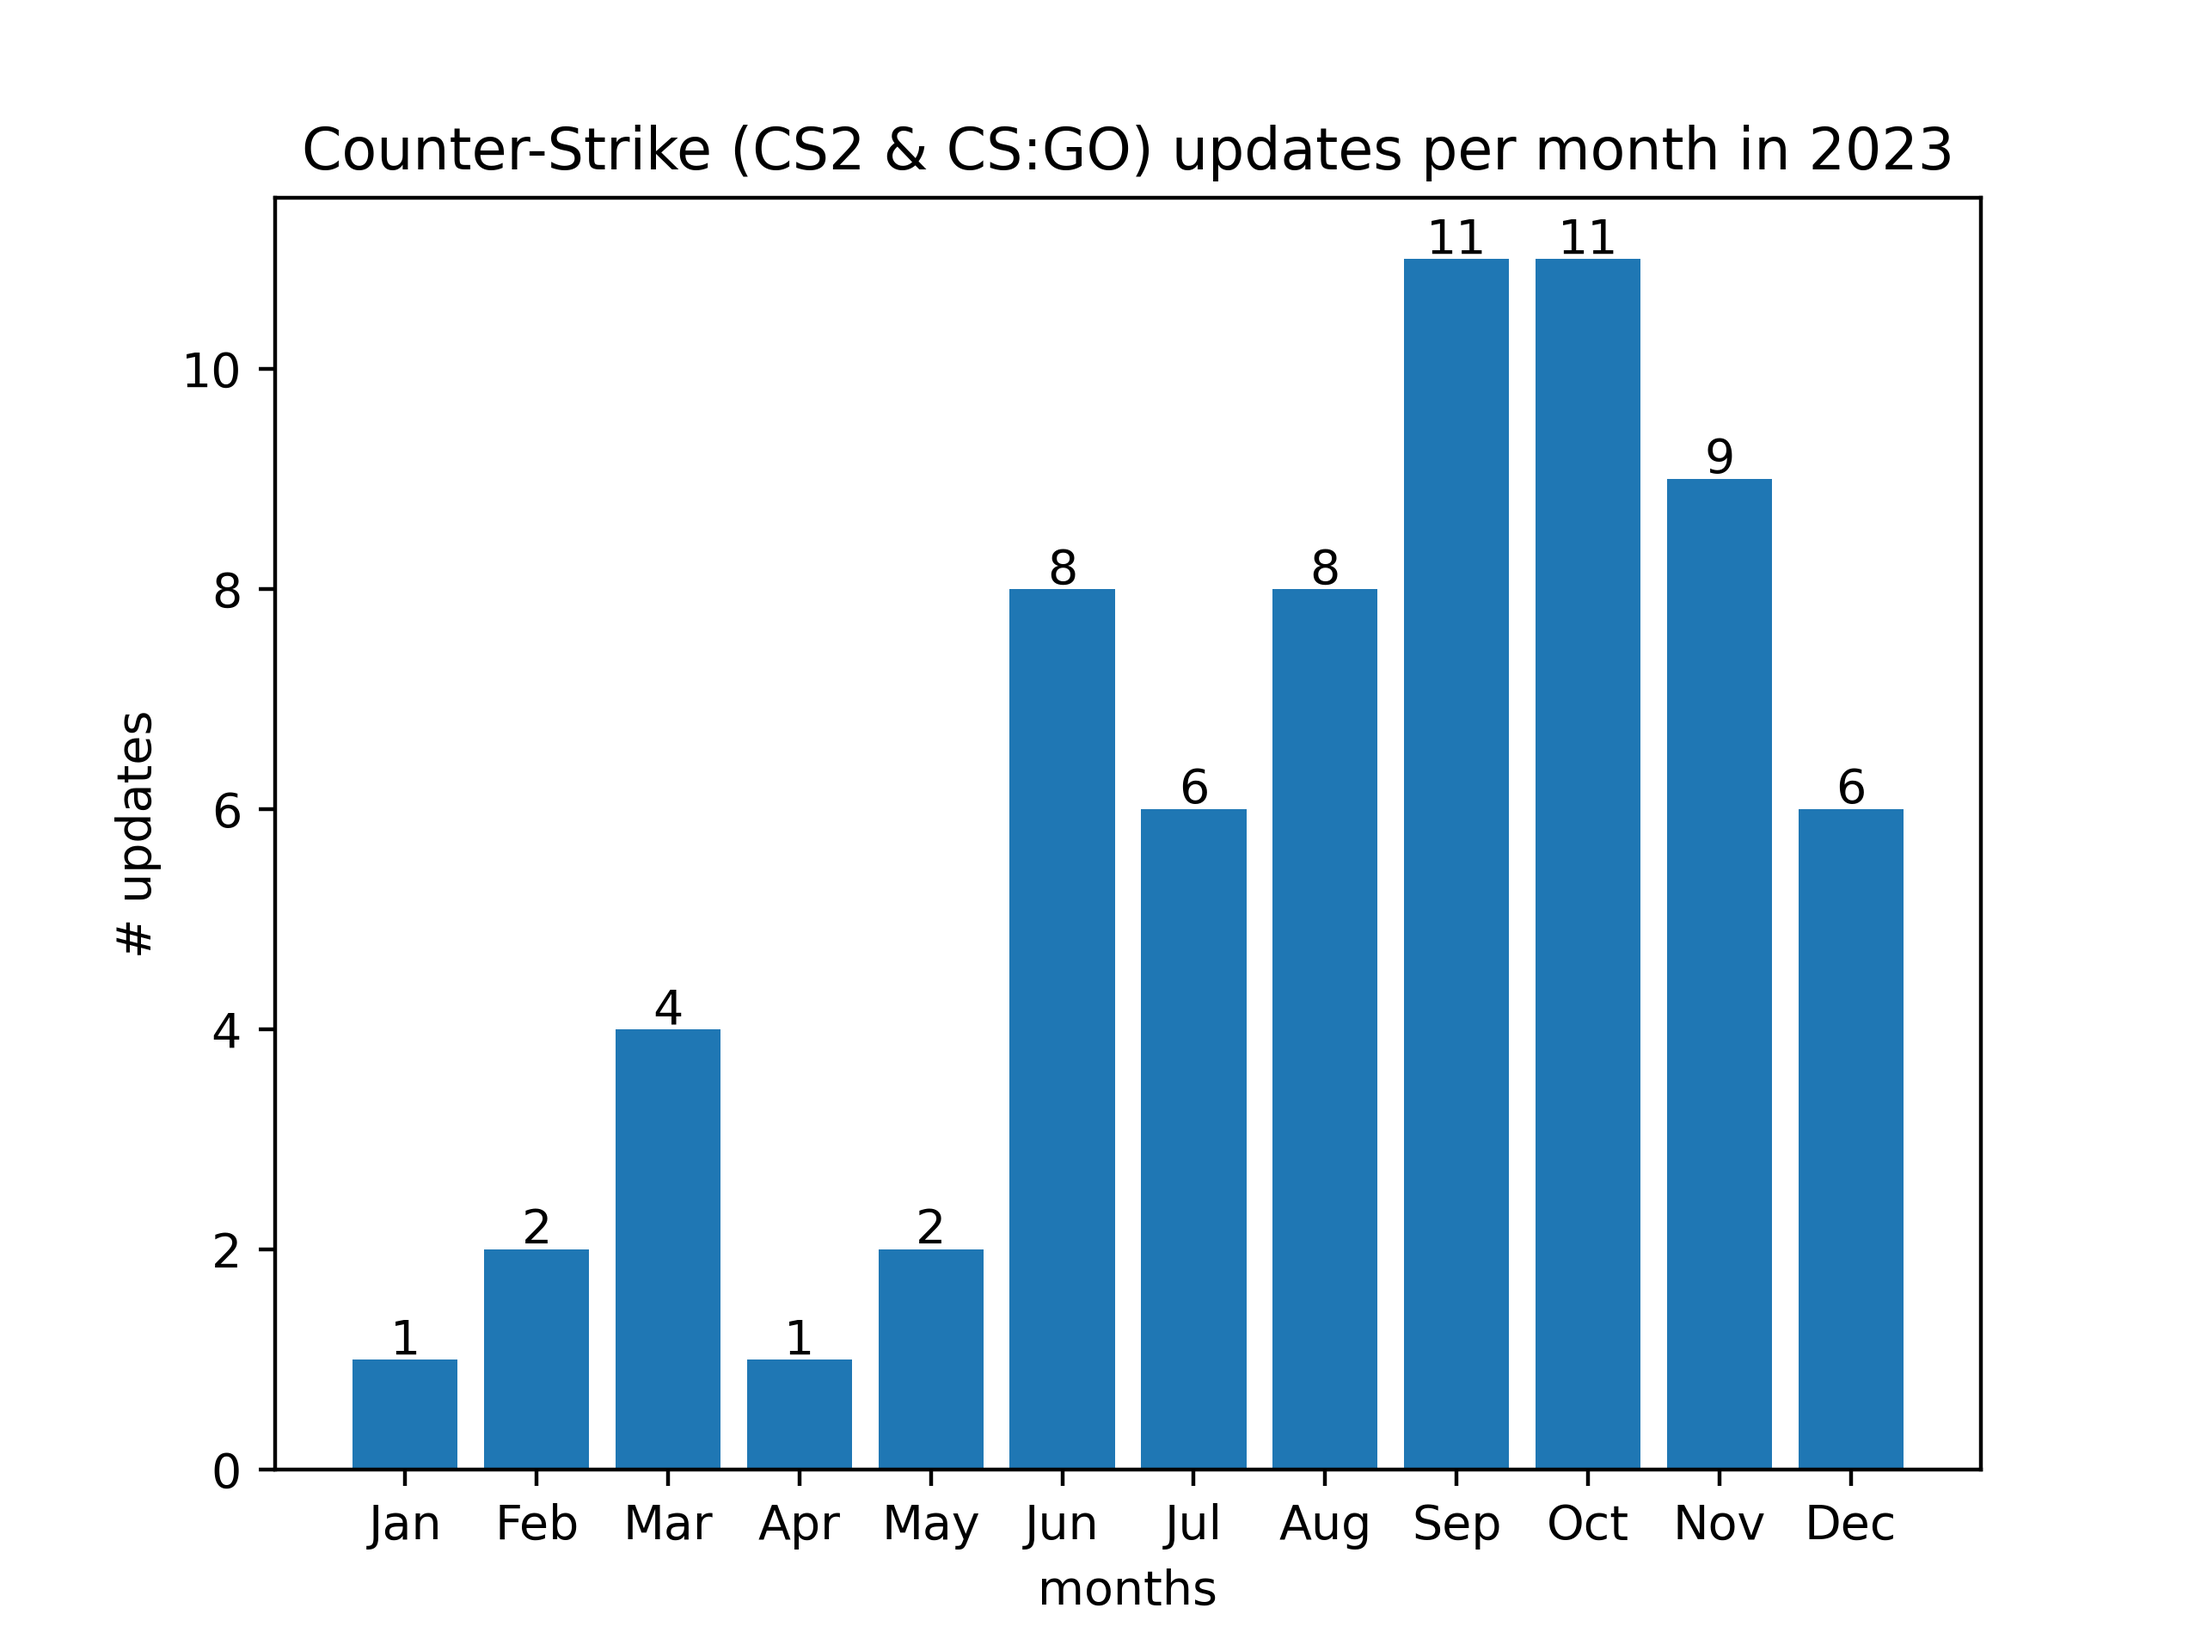
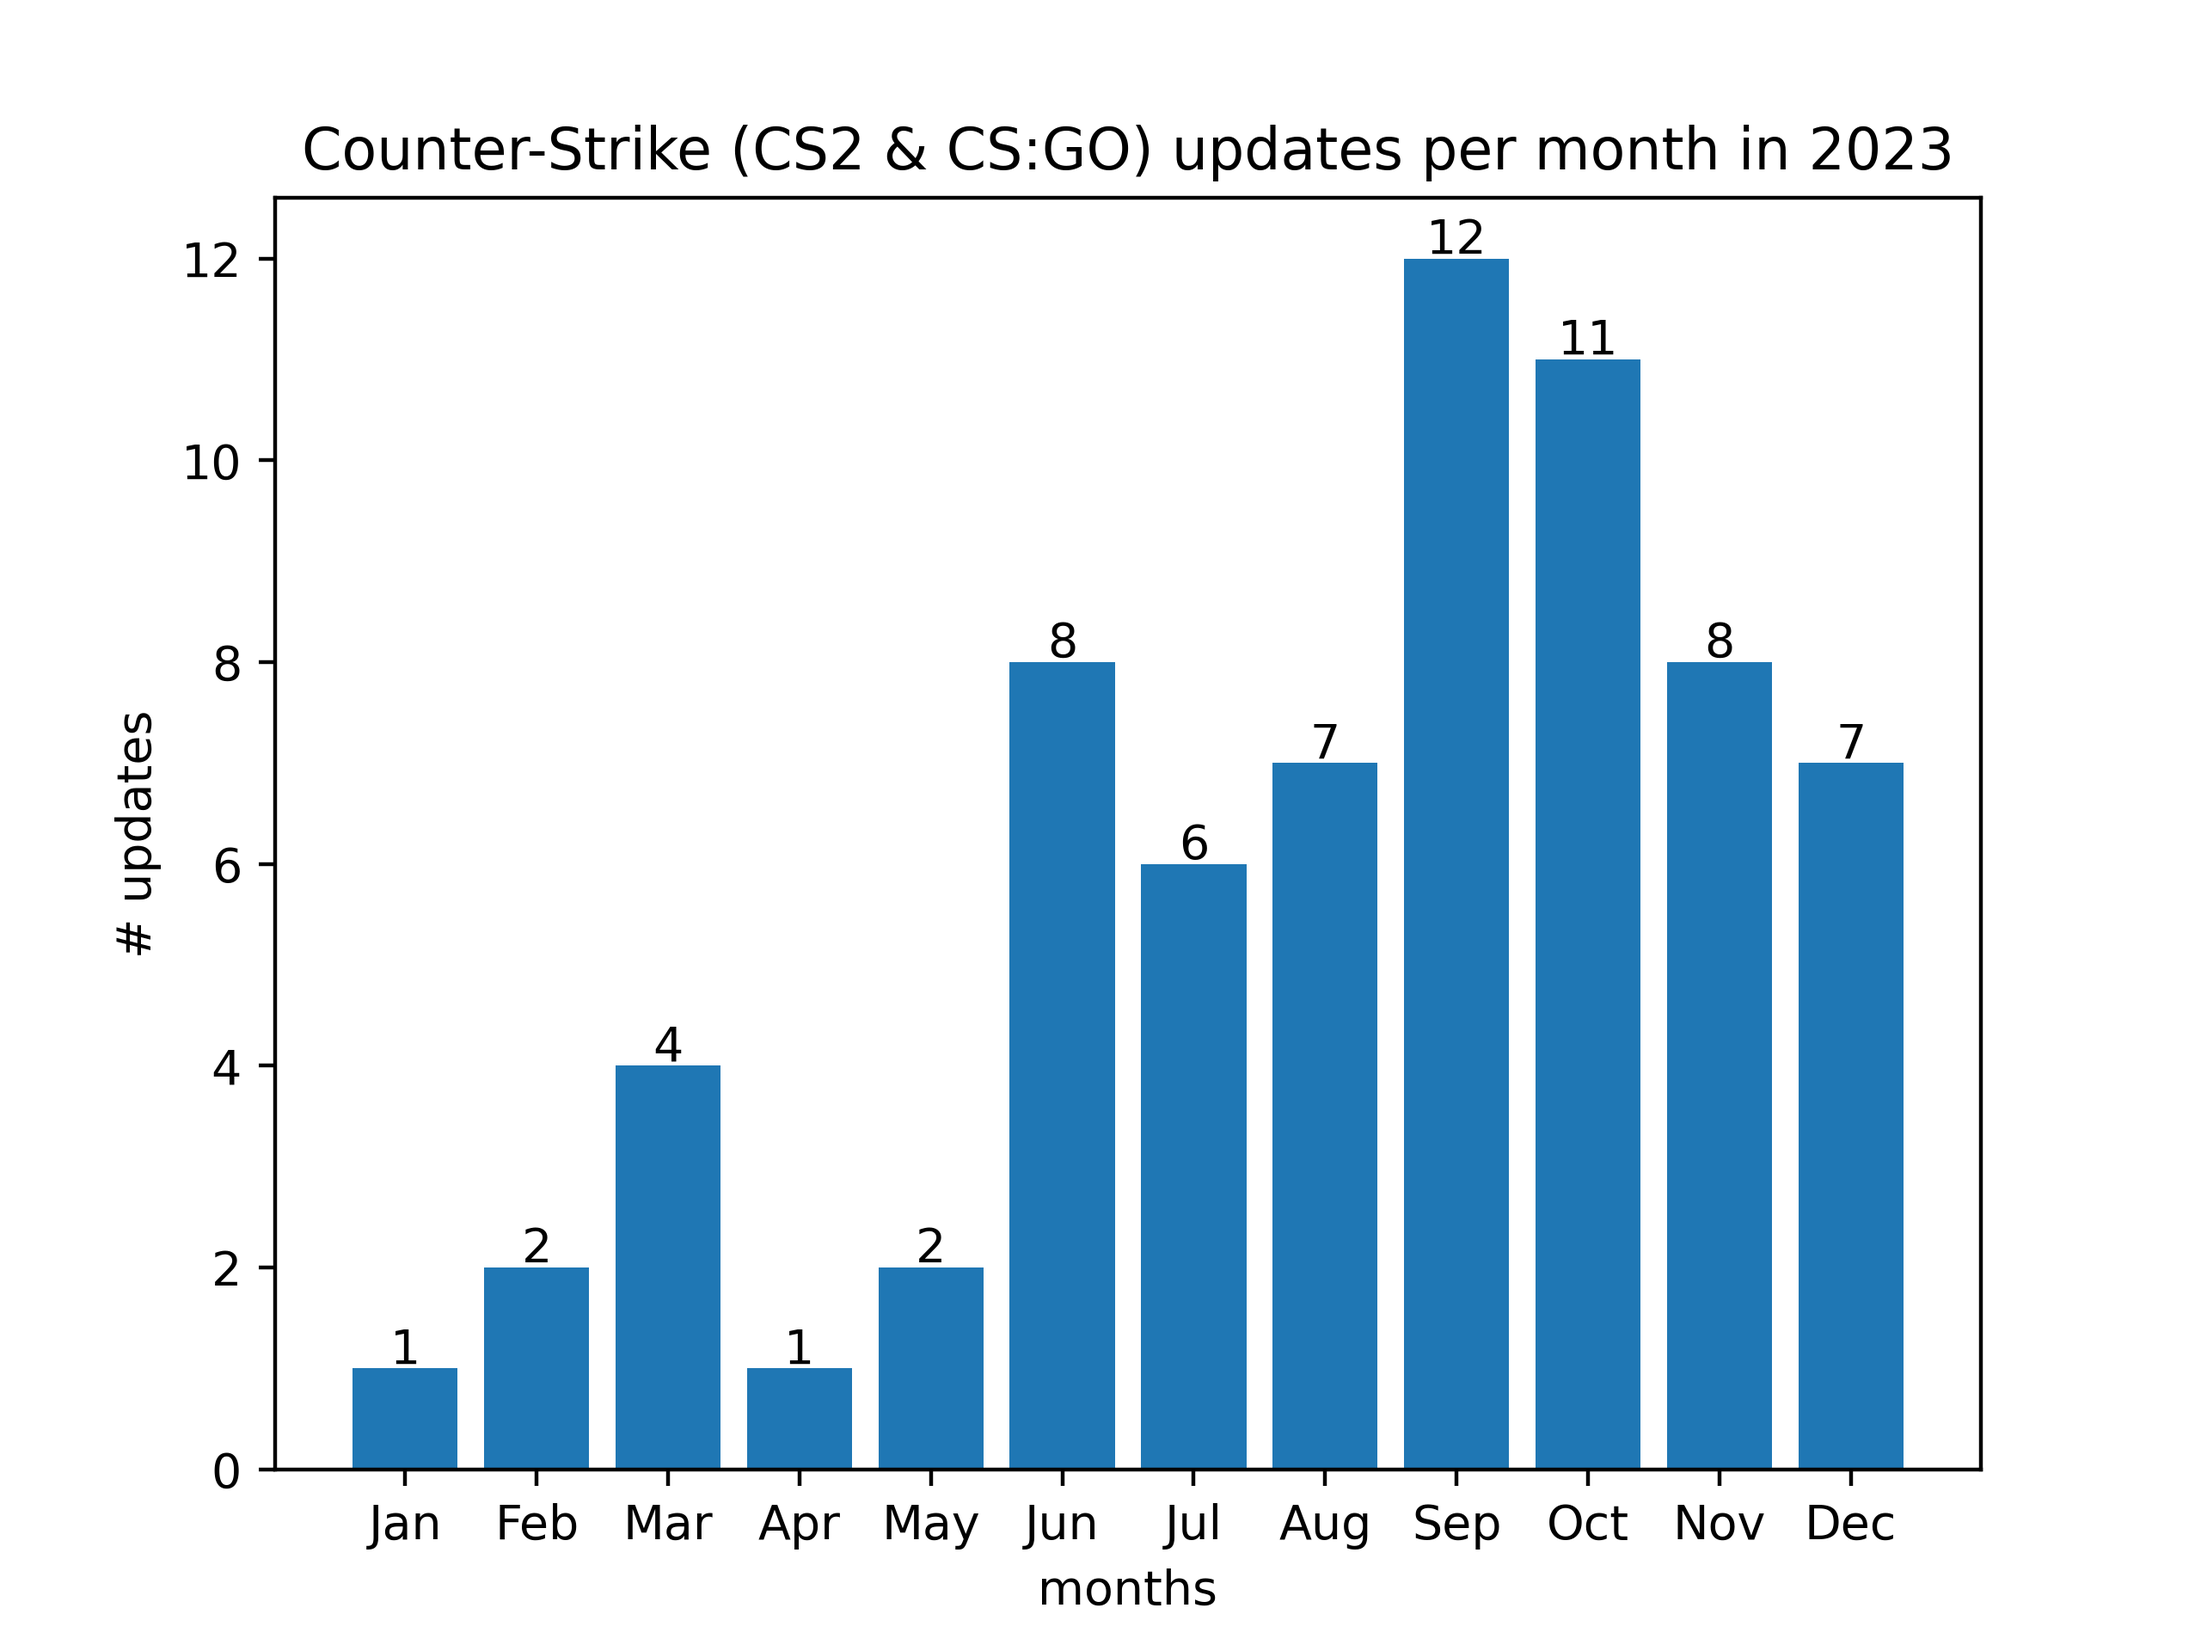
Chart archiving in case of new year

diff --git a/update.py b/update.py
@@ -33,7 +33,7 @@ def create_bar_chart(data: dict, title: str,
     fig.savefig(Path(__file__).parent / 'images' / filename, dpi=400)
 
 
-def update_charts(data: dict) -> None:
+def update_charts(data: dict, date: datetime.date) -> None:
 
     base_path = Path(__file__).parent / 'data' / 'csgo'
     data_filepath = base_path / "updates_combined_raw.json"
@@ -44,8 +44,8 @@ def update_charts(data: dict) -> None:
     # we combine the updates form the old update blog page with the latest ones.
     cs_updates_per_year = CSGODataUtils.updates_per_year(csgo_data)
 
-    for year, udpates in CS2DataUtils.updates_per_year(data).items():
-        cs_updates_per_year[year] += udpates
+    for year, updates in CS2DataUtils.updates_per_year(data).items():
+        cs_updates_per_year[year] += updates
 
     create_bar_chart(cs_updates_per_year,
                      title="Counter-Strike (CS2 & CS:GO) updates over the past years",
@@ -53,21 +53,72 @@ def update_charts(data: dict) -> None:
                      xlabel="years",
                      ylabel="# updates")
 
-    cs_updates_per_month = CSGODataUtils.updates_per_month_of_year(
-        csgo_data, 2023)
+    cs_updates_per_month = {}
+    if date.year < 2024:
+        cs_updates_per_month = CSGODataUtils.updates_per_month_of_year(
+            data=csgo_data, year=date.year)
 
-    for month, udpates in CS2DataUtils.updates_per_month_of_year(data, 2023).items():
-        cs_updates_per_month[month] += udpates
+    for month, updates in CS2DataUtils.updates_per_month_of_year(data=data, year=date.year).items():
+        try:
+            cs_updates_per_month[month] += updates
+        except KeyError:
+            cs_updates_per_month[month] = updates
+
+    title = f"Counter Strike 2 updates per month in {date.year}"
+    if date.year < 2024:
+        title = f"Counter-Strike (CS2 & CS:GO) updates per month in {date.year}"
 
     create_bar_chart(cs_updates_per_month,
-                     title="Counter-Strike (CS2 & CS:GO) updates per month in 2023",
+                     title=title,
                      filename="cs_updates_per_month.png",
                      xlabel="months",
                      ylabel="# updates",
                      offset=0.05)
 
 
+def archive_monthly_updates_chart(data: dict, date: datetime.date) -> None:
+    is_new_year = date.day == 1 and date.month == 1
+
+    if not is_new_year:
+        return
+
+    prev_year = date.year - 1
+    filename = f"cs_updates_per_month_{prev_year}"
+    filepath = Path(__file__).parent / "images" / filename
+
+    if filepath.exists():
+        return
+
+    cs_updates_per_month = {}
+    if prev_year < 2024:
+        base_path = Path(__file__).parent / 'data' / 'csgo'
+        data_filepath = base_path / "updates_combined_raw.json"
+        with open(data_filepath, encoding='utf-8') as f:
+            csgo_data = json.load(f)
+
+        cs_updates_per_month = CSGODataUtils.updates_per_month_of_year(
+            data=csgo_data, year=prev_year)
+
+    for month, updates in CS2DataUtils.updates_per_month_of_year(data=data, year=prev_year).items():
+        try:
+            cs_updates_per_month[month] += updates
+        except KeyError:
+            cs_updates_per_month[month] = updates
+
+    title = f"Counter-Strike (CS2 & CS:GO) updates per month in {prev_year}"
+    if prev_year >= 2024:
+        title = f"Counter Strike 2 updates per month in {prev_year}"
+
+    create_bar_chart(data=cs_updates_per_month,
+                     title=title,
+                     filename=filename,
+                     xlabel="months",
+                     ylabel="# updates",
+                     offset=0.05)
+
+
 def main() -> int:
+    today = datetime.now().date()
     cs_latest_update = CounterStrike2Updates().crawl().latest
 
     base_path = Path(__file__).parent / 'data' / 'cs2'
@@ -76,6 +127,8 @@ def main() -> int:
         data = json.load(f)
 
     latest_saved_entry = data[0]
+
+    archive_monthly_updates_chart(data=data, date=today)
 
     if latest_saved_entry['posttime'] == cs_latest_update['posttime']:
         print("No new Counter-Strike update post!")
@@ -88,7 +141,7 @@ def main() -> int:
         f"Update data with new entry: {datetime.fromtimestamp(cs_latest_update['posttime'])}")
     data = [cs_latest_update] + data
 
-    update_charts(data)
+    update_charts(data=data, date=today)
 
     with open(data_filepath, 'w', encoding='utf-8') as f:
         json.dump(data, f, indent=4)
